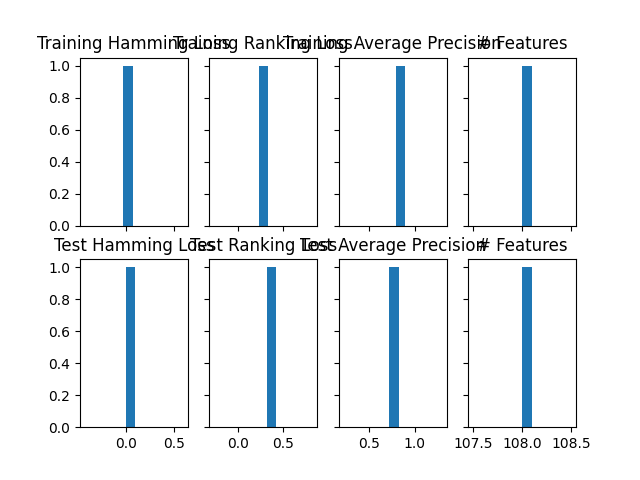
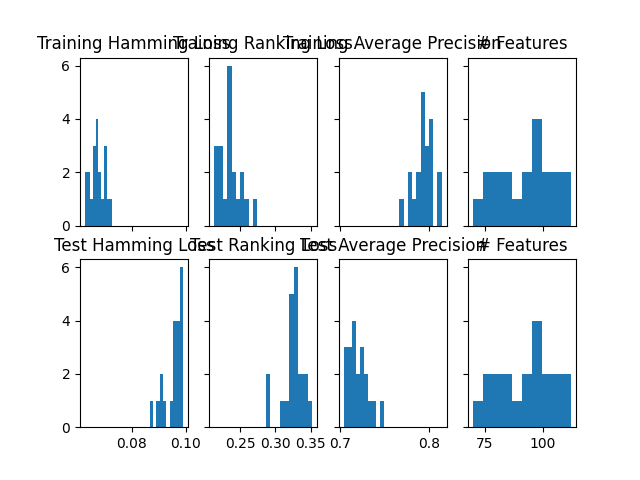
bug fixes

diff --git a/Black_Hole/BH_compelete_binary_scene_tuning.py b/Black_Hole/BH_compelete_binary_scene_tuning.py
@@ -29,7 +29,7 @@ if not sys.warnoptions:
     warnings.simplefilter("ignore")
     os.environ["PYTHONWARNINGS"] = "ignore"
 
-dim = 279
+dim = 4
 score_cache = defaultdict()
 
 
@@ -100,7 +100,7 @@ class Star:
         self.ham_loss = 1
         self.ham_score = 0
         self.name = name
-        self.clf = None
+        self.clf = MLkNN(k=10)
     
     def random_generator_binary(self):
         num = random.uniform(0, 1)
@@ -126,6 +126,25 @@ class Star:
                 feature_index.append(index)
         return feature_index
 
+    def switch_activation(self):
+        #loop through each dimension
+        for i in range(len(self.pos)):
+            #print("dim {}".format(i))
+            rand_num = random.uniform(0, 1)
+            #print("rand_num = ", rand_num)
+            if rand_num <= 0.5:
+                #print("true lesser than 0.05")
+                #convert 0 to 1
+                if self.pos[i] == 0:
+                    #print("changing zero to 1")
+                    self.pos[i] = 1
+                #convert 1 to 0
+                elif self.pos[i] == 1:
+                    #print("changing 1 to 0")
+                    self.pos[i] = 0
+            else:
+                pass
+        #print("exiting after activation with new pos = ", self.pos)
 
 
     def random_generator_vector(self):
@@ -189,11 +208,13 @@ class Star:
             #if the subset is not seen before, get the score by running hamming CV
             #score,clf,correct, incorrect = hamming_scoreCV(X, Y)
             score, loss, clf = hamming_score(X,Y)
+            #score, loss = self.hamming_score(X,Y)
 
             #Num of features selected
             features_selected = (size - len(feature_index))
+            corr_dist_sum = get_distance_corr(X,label_dict)
             #fitness equation
-            fitness = (score / (1 + (lam*features_selected)))
+            fitness = (score / (1 + (lam*features_selected))) - (0.5*corr_dist_sum)
             #cache the information for this subset. cache based on feature_index, i.e, sum of index of features to remove
             score_cache[index_sum] = (fitness, score,1-score, clf)
             #print("going to return")
@@ -247,6 +268,7 @@ def fit(lam, num_of_samples,num_iter, X, Y):
     #intialize parametrs and a global black hole ( best black hole)
     max_iter, it= num_iter, 0
     global_BH = Star(name = "default")
+    #print("default global BH pos = ", global_BH.pos)
     global_BH.isBH = True
 
     #get the bipirate distance_correlation dictionary for all ( X,Y)
@@ -255,7 +277,7 @@ def fit(lam, num_of_samples,num_iter, X, Y):
 
     #start the loop
     while it < max_iter:
-        #print("iloop iter || ", it)
+        print("iloop iter || ", it)
 
         #intialize the population of stars and update thier fitnes
         for i in range(0, pop_number):
@@ -276,12 +298,16 @@ def fit(lam, num_of_samples,num_iter, X, Y):
             pass
 
         #update the location of other stars
+        #print("updating location of stars")
         for i in range(pop_number):
             if pop[i].isBH == False:
                 pop[i].updateLocation_binary(global_BH)
-               
-            else:
-                pass
+                #print("star {} after location update {}".format(i, pop[i].pos))
+            if it%5 == 0 and it>0:
+                #print("it % 5 true")
+                #print("before activation, start {} pos = {} ".format(i, pop[i].pos))
+                pop[i].switch_activation()
+                #print("after activation, start {} pos = {} ".format(i, pop[i].pos))
 
         #get the event horizon        
         eventHorizon = calcEvetHorizon(global_BH, pop)
@@ -290,8 +316,16 @@ def fit(lam, num_of_samples,num_iter, X, Y):
         #if in event horizon, reintialize stars randomly
         for i in range(pop_number):
             if isCrossingEventHorizon(global_BH, pop[i], eventHorizon) == True and pop[i].isBH == False:
+                #print("start {} crossing event horizion".format(i))
                 for j in range(dim):
-                    pop[i].pos[j] = pop[i].random_generator()
+                    #pop[i].pos[j] = pop[i].random_generator()
+                            num = random.uniform(0, 1)
+                            if num > 0.5:
+                                pop[i].pos[j] = 1
+                            else:
+                                pop[i].pos[j] = 0
+                #print("newly intialized position of star {} is {}".format(i,pop[i].pos))
+                    
 
         #print("fitness || ", global_BH.fitness, "\n")
         #print("lam = ", lam)
@@ -302,6 +336,7 @@ def fit(lam, num_of_samples,num_iter, X, Y):
 
         #print("\n\n")
         #print("converting BH to binary")
+
         it = it + 1
     
     #print("sample star pos = ", pop[12].pos)
@@ -332,28 +367,7 @@ def variance(lst):
 
 
 if __name__ == "__main__":
-    #Reading the data into Dataframe
-    data = pd.read_csv("Data/scene.csv")
 
-    #Get X and Y from the data
-    Y = data[['Beach','Sunset','FallFoliage','Field','Mountain','Urban']]
-    X = data.drop(columns= Y)
-
-    
-    #print("Type X_train = ", type(X_train))
-    #print(X_train)
-    
-    print("INFO : \n\n")
-    print("X shape : ", X.shape)
-    print("X type = ", type(X))
-    print("Y shape = : ", Y.shape)
-    print("Y type: ", type(Y))
-    
-
-    scaled_features = sklearn.preprocessing.MinMaxScaler().fit_transform(X.values)
-    X = pd.DataFrame(scaled_features, index= X.index, columns= X.columns)
-    #uncomment to run with chi^2
-    X = univariate_feature_elimination(X,Y,15)
    
     #print("X_train shape", X_train.shape)
     #print("X_test shape", X_test.shape)
@@ -370,23 +384,44 @@ if __name__ == "__main__":
 
     #number of runs of program, right now only 1 run.
     start_time = time.time()
-    for runs in range(20):
+    for runs in range(1):
         print("---RUN {}---".format(runs))
         random.seed(runs)
         seed = random.randint(1, 1000)
-        X_train, X_test, Y_train, Y_test = train_test_split(X, Y, test_size=0.4, random_state=seed)
+        #Reading the data into Dataframe
+        data = pd.read_csv("Data/scene.csv")
 
+        #Get X and Y from the data
+        Y = data[['Beach','Sunset','FallFoliage','Field','Mountain','Urban']]
+        X = data.drop(columns= Y)
+        #X = X.iloc[:, 1:10]
+        
+
+        scaled_features = sklearn.preprocessing.MinMaxScaler().fit_transform(X.values)
+        X = pd.DataFrame(scaled_features, index= X.index, columns= X.columns)
+        #uncomment to run with chi^2
+        X = univariate_feature_elimination(X,Y,15)
+        X_train, X_test, Y_train, Y_test = train_test_split(X, Y, test_size=0.4, random_state=seed)
+        print("X train shape = ", X_train.shape)
+        print("X test shape = ", X_test.shape)
+        print("Y train shape", Y_train.shape)
+        print("Y test shape = ", Y_test.shape)
         #run the algorithm
-        X_subset , inactive_features, train_score, train_loss, clf = fit(lam,20,50,X_train,Y_train)
+        X_subset , inactive_features, train_score, train_loss, clf = fit(lam,5,10,X_train,Y_train)
         #print("inactive features \n\n", inactive_features)
         #print("length of inactive features = ", len(inactive_features))
-        X_test = X_test.drop(X_test.columns[inactive_features],axis=1)
+        X_test_subset = X_test.drop(X_test.columns[inactive_features],axis=1)
+        #print("X train subset = ", X_subset.shape)
+        #print("X_test ater drop", X_test_subset.shape)
+        #print("X_subset \n", X_subset.columns)
+        #print("X_test \n",X_test_subset.columns)
+        #print(clf)
         #print("X_test shape = ", X_test.shape)
         #print("best clf = ", clf)
         #clf = MLkNN(k=10)
         #caculate rl_loss, avg_prec for the best subset
         #test_loss, rl_loss, avg_precision = hamming_score(X_test,Y_test, metric = True)
-        y_pred = clf.predict(np.array(X_test)).toarray()
+        y_pred = clf.predict(X_test_subset).toarray()
         test_loss = hamming_loss(y_pred, Y_test)
         rl_loss = label_ranking_loss(Y_test,y_pred)
         avg_precision = label_ranking_average_precision_score(Y_test, y_pred)
@@ -396,7 +431,7 @@ if __name__ == "__main__":
         avg_precision_list.append(avg_precision)
         feature_list.append(X_subset.shape[1])
         print("train loss {} features {}".format(train_loss, X_subset.shape[1]))
-        print("test loss with BH = {} and features selected = {}".format(test_loss, X_test.shape[1]))
+        print("test loss with BH = {} and features selected = {}".format(test_loss, X_test_subset.shape[1]))
         print("rl loss || prrcision {} {} ".format(rl_loss, avg_precision))
     print("--- %s seconds ---" % (time.time() - start_time))
     print("losst list \n\n {}".format(loss_list))

diff --git a/Black_Hole/utility.py b/Black_Hole/utility.py
@@ -24,6 +24,8 @@ from sklearn.model_selection import train_test_split
 from sklearn.metrics import hamming_loss
 from skmultilearn.adapt import MLkNN
 from sklearn.metrics import label_ranking_loss, label_ranking_average_precision_score, coverage_error
+from sklearn.neighbors import KNeighborsClassifier
+
 
 if not sys.warnoptions:
     warnings.simplefilter("ignore")
@@ -225,6 +227,7 @@ def hamming_score(X,y, metric = False):
     
     #clf = BinaryRelevance(classifier = RandomForestClassifier(random_state= 25))
     clf = MLkNN(k=10)
+    #clf = KNeighborsClassifier(n_neighbors=10)
     #print(type(X_train))
     clf.fit(np.array(X), np.array(y))
     y_pred = clf.predict(np.array(X)).toarray()

diff --git a/Black_Hole/playground.py b/Black_Hole/playground.py
@@ -54,3 +54,5 @@ print(feature_diff_list)
 """
 
 #df.drop(df.loc[:, df.columns[df.columns.str.startswith('F')]], axis=1)
+
+l = [0.100.090.100.100.100.100.100.100.090.100.100.090.100.090.100.100.100.090.09.0.10]
